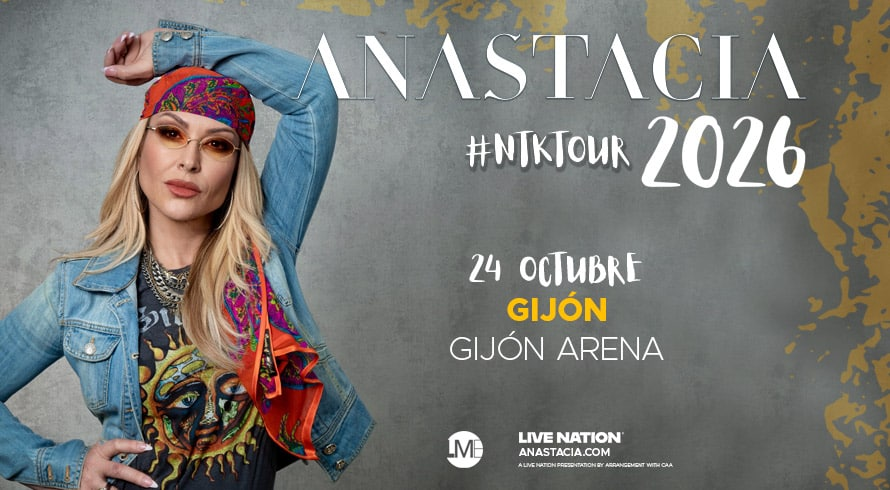
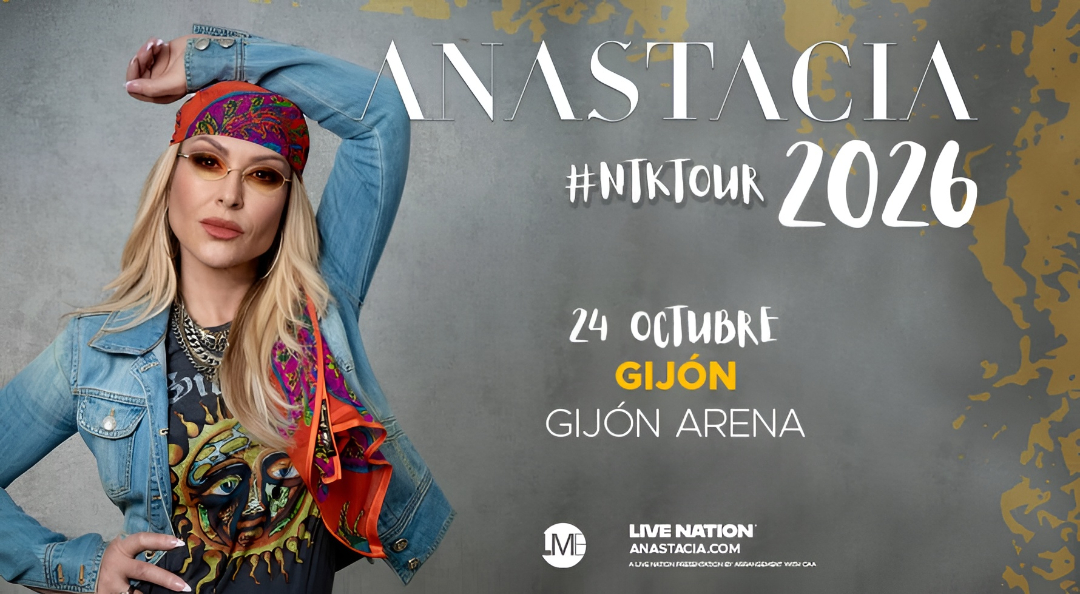
feat: modificación en imágenes de carteles y terminar hero y cards del index

diff --git a/lenguaje-de-marcas/index.html b/lenguaje-de-marcas/index.html
@@ -194,26 +194,27 @@
 
       <div class="hero-slide hidden w-full">
         <img
-          src="assets/images/cleopatra.jpg"
+          src="assets/images/cartel-cleopatra.jpg"
           alt="Cleopatra, la exposición inmersiva"
-          class="hero-imagen"
+          class="hero-imagen object-top"
+          style="object-position: center 20%;"
         />
         <div class="hero-overlay"></div>
         <div class="hero-contenido max-w-7xl mx-auto px-6 py-10">
-          <span class="hero-badge">Exposición</span>
+          <p class="hero-etiqueta etiqueta-orange">Exposición</p>
           <h2
             class="text-3xl md:text-4xl font-semibold text-white leading-tight mb-2"
           >
-            Cleopatra, la exposición inmersiva
+            Cleopatra - La exposición inmersiva
           </h2>
           <p class="text-sm text-white/60 mb-5">
             5 de junio de 2026 · MAD Madrid
           </p>
           <a
-            href="evento-cleopatra.html"
-            class="inline-block bg-corp-pink text-white text-xs font-semibold px-5 py-2.5 rounded-full hover:opacity-90 transition-opacity"
+            href="cleopatra.html"
+            class="inline-block bg-corp-orange text-white text-xs font-semibold px-5 py-2.5 rounded-full hover:scale-105 transition-transform uppercase tracking-wider"
           >
-            Ver evento →
+          Ver evento ➜
           </a>
         </div>
       </div>
@@ -221,13 +222,13 @@
       <!-- ---- SLIDE 5: Hannah Montana ---- -->
       <div class="hero-slide hidden w-full">
         <img
-          src="assets/images/hannah-montana.jpg"
+          src="assets/images/cartel-hannah.webp"
           alt="Especial Hannah Montana 20 Aniversario"
-          class="hero-imagen"
+          class="hero-imagen object-contain object-top"
         />
         <div class="hero-overlay"></div>
         <div class="hero-contenido max-w-7xl mx-auto px-6 py-10">
-          <span class="hero-badge">Cine</span>
+          <p class="hero-etiqueta etiqueta-blue">Cine</p>
           <h2
             class="text-3xl md:text-4xl font-semibold text-white leading-tight mb-2"
           >
@@ -237,23 +238,50 @@
             15 de junio de 2026 · Disney+
           </p>
           <a
-            href="evento-hannah.html"
-            class="inline-block bg-corp-pink text-white text-xs font-semibold px-5 py-2.5 rounded-full hover:opacity-90 transition-opacity"
+            href="hannah.html"
+            class="inline-block bg-corp-blue text-white text-xs font-semibold px-5 py-2.5 rounded-full hover:scale-105 transition-transform uppercase tracking-wider"
           >
-            Ver evento →
+          Ver evento ➜
           </a>
         </div>
       </div>
 
-      <!-- ---- SLIDE 6: The Tile Project ---- -->
+      <!-- ---- SLIDE 6: Salmon Trail ---- -->
+      <div class="hero-slide hidden w-full">
+        <img
+          src="assets/images/cartel-salmon-trail.png"
+          alt="Salmon Trail Cornellana"
+          class="hero-imagen"
+        />
+        <div class="hero-overlay"></div>
+        <div class="hero-contenido max-w-7xl mx-auto px-6 py-10">
+          <p class="hero-etiqueta etiqueta-gray">Deporte</p>
+          <h2
+            class="text-3xl md:text-4xl font-semibold text-white leading-tight mb-2"
+          >
+            Salmon Trail - Cornellana
+          </h2>
+          <p class="text-sm text-white/60 mb-5">
+            25 de junio de 2026 · Salas, Asturias
+          </p>
+          <a
+            href="salmon.html"
+            class="inline-block bg-corp-gray text-white text-xs font-semibold px-5 py-2.5 rounded-full hover:scale-105 transition-transform uppercase tracking-wider"
+          >
+          Ver evento ➜
+          </a>
+        </div>
+      </div>
+
+      <!-- ---- SLIDE 7: The Tile Project ---- -->
 
        <!-- Slide del carrusel para js, oculto hasta que se active por js -->
       <div class="hero-slide hidden w-full">
         <!-- Imagen de fondo del evento -->
         <img 
-          src="assets/images/tile-portada.jpg"
+          src="assets/images/cartel-azulejos.png"
           alt="The Tile Project"
-          class="hero-imagen object-top"
+          class="hero-imagen"
         />
         <!-- Degradado para legibilidad del texto -->
         <div class="hero-overlay"></div>
@@ -275,43 +303,16 @@
         </div>
       </div>
 
-      <!-- ---- SLIDE 7: Salmon Trail ---- -->
-      <div class="hero-slide hidden w-full">
-        <img
-          src="assets/images/salmon-trail.jpg"
-          alt="Salmon Trail Cornellana"
-          class="hero-imagen"
-        />
-        <div class="hero-overlay"></div>
-        <div class="hero-contenido max-w-7xl mx-auto px-6 py-10">
-          <span class="hero-badge">Deporte</span>
-          <h2
-            class="text-3xl md:text-4xl font-semibold text-white leading-tight mb-2"
-          >
-            Salmon Trail Cornellana
-          </h2>
-          <p class="text-sm text-white/60 mb-5">
-            25 de junio de 2026 · Salas, Asturias
-          </p>
-          <a
-            href="evento-salmon.html"
-            class="inline-block bg-corp-pink text-white text-xs font-semibold px-5 py-2.5 rounded-full hover:opacity-90 transition-opacity"
-          >
-            Ver evento →
-          </a>
-        </div>
-      </div>
-
       <!-- ---- SLIDE 8: Anastacia ---- -->
       <div class="hero-slide hidden w-full">
         <img
-          src="assets/images/anastacia.jpg"
+          src="assets/images/cartel-anastacia-nkt.png"
           alt="#NTKTOUR2026 — Anastacia"
           class="hero-imagen"
         />
         <div class="hero-overlay"></div>
         <div class="hero-contenido max-w-7xl mx-auto px-6 py-10">
-          <span class="hero-badge">Música</span>
+          <p class="hero-etiqueta etiqueta-pink">Música</p>
           <h2
             class="text-3xl md:text-4xl font-semibold text-white leading-tight mb-2"
           >
@@ -321,14 +322,15 @@
             24 de octubre de 2026 · Gijón Arena
           </p>
           <a
-            href="evento-anastacia.html"
-            class="inline-block bg-corp-pink text-white text-xs font-semibold px-5 py-2.5 rounded-full hover:opacity-90 transition-opacity"
+            href="anastacia.html"
+            class="inline-block bg-corp-pink text-white text-xs font-semibold px-5 py-2.5 rounded-full hover:scale-105 transition-transform uppercase tracking-wider"
           >
-            Ver evento →
+          Ver evento ➜
           </a>
         </div>
       </div>
 
+      <!-- Elementos Hero -->
       <!-- Botón anterior -->
       <button
         id="hero-anterior"
@@ -380,41 +382,45 @@
       ></div>
     </section>
 
-    <!-- ============================================================
-       CONTENIDO PRINCIPAL
-       - Columna izquierda: grid de próximos eventos
-       - Columna derecha: sidebar de recomendados
-       ============================================================ -->
+   <!-- CONTENIDO CARDS: SUGERENCIAS DE PRÓXIMOS EVENTOS Y RECOMENDADOS -->
+
+    <!-- Centra el contenido del main -->
     <main class="max-w-7xl mx-auto px-6 py-10">
+      <!-- Coloca la separación de próximos eventos y recomendados en desktop - hoeizontal y en móvil - vertical -->
       <div class="flex flex-col lg:flex-row gap-10">
+
         <!-- ---- PRÓXIMOS EVENTOS ---- -->
+         <!--  Ocupa todo el espacio disponible que sobre -->
         <section class="flex-1">
-          <!-- Título de sección con línea decorativa -->
-          <div class="separador-seccion">
+            <div class="separador-seccion mb-6">
             <h2
-              class="text-xs font-semibold text-gray-400 uppercase tracking-widest"
+              class="text-sm font-bold text-gray-400 uppercase tracking-widest"
             >
               Próximos eventos
             </h2>
           </div>
 
-          <!-- Grid de cards — 1 columna en móvil, 2 en tablet, 3 en desktop -->
-          <div class="grid grid-cols-1 sm:grid-cols-2 xl:grid-cols-3 gap-5">
+          <!-- Grid de cards — 1 columna en móvil y 3 en desktop -->
+          <div class="grid grid-cols-1 lg:grid-cols-3 gap-5">
+
             <!-- Card: Cleopatra -->
             <article
-              class="card-evento bg-white rounded-xl border border-gray-100 overflow-hidden"
+              class="card-evento bg-white rounded-xl border border-corp-orange overflow-hidden"
             >
+            <!-- Contenedor de la imagen  -->
               <div class="relative h-44 overflow-hidden">
                 <img
-                  src="assets/images/cleopatra.jpg"
+                  src="assets/images/cartel-cleopatra.jpg"
                   alt="Cleopatra, la exposición inmersiva"
                   class="card-imagen"
                 />
-                <span class="card-badge badge-naranja">Exposición</span>
+                <p class="card-etiqueta etiqueta-orange text-white">Exposición</p>
+                <!-- Barrita de color de categoría -->
                 <div
-                  class="absolute bottom-0 left-0 right-0 h-1 barra-naranja"
+                  class="absolute bottom-0 left-0 right-0 h-1 barra-orange"
                 ></div>
               </div>
+              <!-- Parte de abajo de la card con texto -->
               <div class="p-4">
                 <p class="text-xs text-gray-400 font-medium mb-1">
                   05 jun 2026
@@ -428,26 +434,26 @@
                   Viaje multisensorial al Antiguo Egipto con proyecciones de
                   360°.
                 </p>
-                <a href="evento-cleopatra.html" class="enlace-evento"
-                  >Ver evento →</a
+                <a href="cleopatra.html" class="inline-block bg-corp-orange text-white text-xs font-semibold px-5 py-2.5 rounded-full hover:scale-105 transition-transform uppercase tracking-wider">
+                Ver evento ➜
+                </a
                 >
               </div>
             </article>
 
             <!-- Card: Hannah Montana -->
             <article
-              class="card-evento bg-white rounded-xl border border-gray-100 overflow-hidden"
+              class="card-evento bg-white rounded-xl border border-corp-blue overflow-hidden"
             >
               <div class="relative h-44 overflow-hidden">
                 <img
-                  src="assets/images/hannah-montana.jpg"
+                  src="assets/images/cartel-han.jpg"
                   alt="Hannah Montana 20 Aniversario"
                   class="card-imagen"
-                  style="object-position: center bottom"
                 />
-                <span class="card-badge badge-azul">Cine</span>
+                <p class="card-etiqueta etiqueta-blue text-white">Cine</p>
                 <div
-                  class="absolute bottom-0 left-0 right-0 h-1 barra-azul"
+                  class="absolute bottom-0 left-0 right-0 h-1 barra-blue"
                 ></div>
               </div>
               <div class="p-4">
@@ -462,25 +468,25 @@
                 <p class="text-xs text-gray-500 leading-relaxed mb-3">
                   El docureality de la serie icónica que marcó una generación.
                 </p>
-                <a href="evento-hannah.html" class="enlace-evento"
-                  >Ver evento →</a
+                <a href="hannah.html" class="inline-block bg-corp-blue text-white text-xs font-semibold px-5 py-2.5 rounded-full hover:scale-105 transition-transform uppercase tracking-wider">
+                Ver evento ➜
+                </a
                 >
               </div>
             </article>
 
             <!-- Card: Salmon Trail -->
             <article
-              class="card-evento bg-white rounded-xl border border-gray-100 overflow-hidden"
-            >
+              class="card-evento bg-white rounded-xl border border-corp-gray overflow-hidden">
               <div class="relative h-44 overflow-hidden">
                 <img
-                  src="assets/images/salmon-trail.jpg"
+                  src="assets/images/logo-salmon.jpg"
                   alt="Salmon Trail Cornellana"
-                  class="card-imagen"
+                  class="card-imagen object-contain"
                 />
-                <span class="card-badge badge-gris">Deporte</span>
+                <p class="card-etiqueta etiqueta-gray text-white">Deporte</p>
                 <div
-                  class="absolute bottom-0 left-0 right-0 h-1 barra-gris"
+                  class="absolute bottom-0 left-0 right-0 h-1 barra-gray"
                 ></div>
               </div>
               <div class="p-4">
@@ -495,8 +501,9 @@
                 <p class="text-xs text-gray-500 leading-relaxed mb-3">
                   Carrera de montaña por los senderos de Salas, Asturias.
                 </p>
-                <a href="evento-salmon.html" class="enlace-evento"
-                  >Ver evento →</a
+                <a href="salmon.html" class="inline-block bg-corp-gray text-white text-xs font-semibold px-5 py-2.5 rounded-full hover:scale-105 transition-transform uppercase tracking-wider">
+                Ver evento ➜
+                </a
                 >
               </div>
             </article>

diff --git a/lenguaje-de-marcas/assets/css/styles.css b/lenguaje-de-marcas/assets/css/styles.css
@@ -170,7 +170,7 @@ body {
 .barra-orange { background-color: #ff7b00; }
 .barra-gray    { background-color: #555555; }
 
-/* Etiqueta de categoría dentro de la card */
+/* Ajustes de la etiqueta de categoría dentro de la card */
 .card-etiqueta {
   position: absolute;
   top: 10px;
